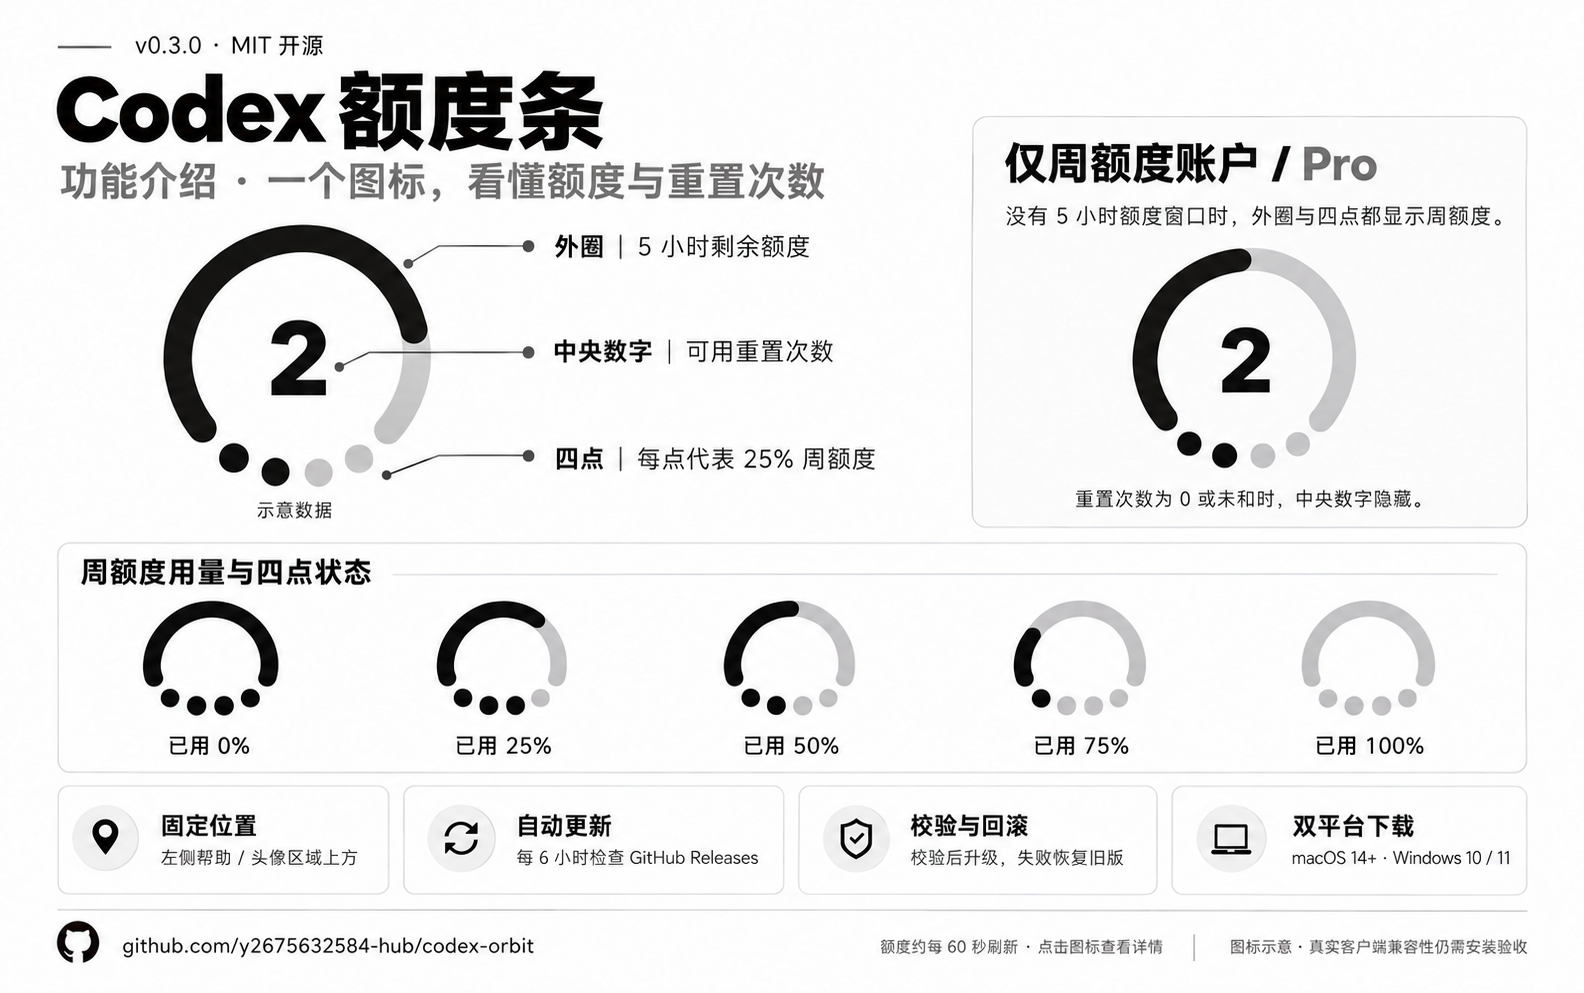
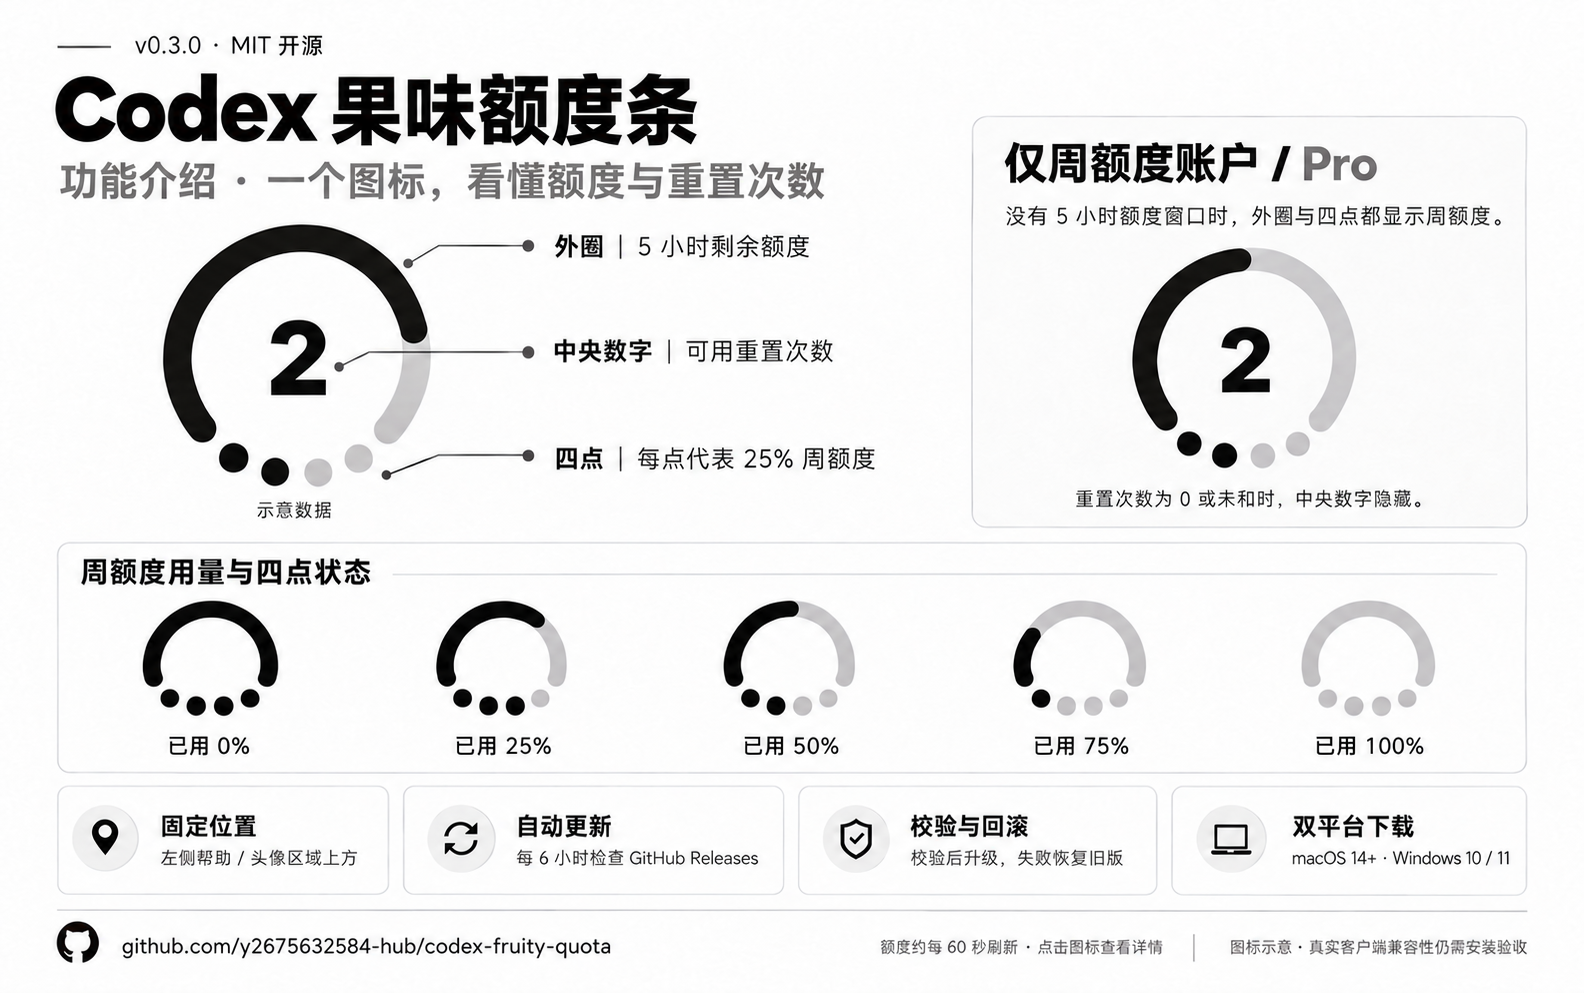
Rename project to Codex 果味额度条 and update repository links

diff --git a/web/rail.html b/web/rail.html
@@ -2,13 +2,13 @@
 <html lang="zh-CN" class="dark">
 <head>
   <meta charset="utf-8"><meta name="viewport" content="width=device-width,initial-scale=1">
-  <title>Codex Orbit · 固定接入测试</title>
+  <title>Codex 果味额度条 · 固定接入测试</title>
   <link rel="stylesheet" href="/rail.css">
   <script src="/injected-orbit.js" defer></script>
   <script type="module" src="/rail-preview.js"></script>
 </head>
 <body>
-  <header><a href="/rail.html">orbit / codex</a><span>固定接入测试 · 模拟导航栏</span><button id="theme">浅色外观</button></header>
+  <header><a href="/rail.html">果味 / codex</a><span>固定接入测试 · 模拟导航栏</span><button id="theme">浅色外观</button></header>
   <main>
     <p class="eyebrow">REUSED PLACEMENT · YOUR ICON</p>
     <h1>留在头像上方。</h1><p class="subtitle">复用同一个定位函数，图标在导航栏布局里占有位置。</p>
@@ -27,7 +27,7 @@
         <p class="note">定位节点：导航栏 footer 前。找不到节点时隐藏，避免盖住其他内容。</p>
       </aside>
     </section>
-    <footer>Codex Orbit 0.3.0 · MIT · 复用 codex-usage-badge 的定位与连接方案</footer>
+    <footer>Codex 果味额度条 0.3.0 · MIT · 复用 codex-usage-badge 的定位与连接方案</footer>
   </main>
   <template id="rail-template"><nav data-app-navigation-rail aria-label="模拟导航栏"><div class="top-icons"><span>⌂</span><span>◷</span><span>▥</span><span>▧</span><span>⚙</span><span>···</span></div><div class="rail-spacer"></div><div class="account-footer"><span class="help">?</span><div class="avatar">U</div></div></nav></template>
 </body>

diff --git a/web/index.html b/web/index.html
@@ -2,11 +2,11 @@
 <html lang="zh-CN">
 <head>
   <meta charset="utf-8"><meta name="viewport" content="width=device-width,initial-scale=1">
-  <title>Codex Orbit · 额度图标预览</title>
+  <title>Codex 果味额度条 · 额度图标预览</title>
   <link rel="stylesheet" href="/preview.css"><script type="module" src="/preview.js"></script>
 </head>
 <body>
-  <header class="topbar"><a class="brand" href="/">orbit<span> / codex</span></a><span class="tag">独立组件预览</span><button id="theme" aria-label="切换深浅色主题">深色外观</button></header>
+  <header class="topbar"><a class="brand" href="/">果味<span> / codex</span></a><span class="tag">独立组件预览</span><button id="theme" aria-label="切换深浅色主题">深色外观</button></header>
   <main>
     <section class="intro"><p class="eyebrow">CODEX QUOTA, AT A GLANCE</p><h1>额度，看一眼就知道。</h1><p class="description">一个圆弧，四个点。把余量收进一个小图标。</p></section>
     <section class="layout">
@@ -49,7 +49,7 @@
         <p class="data-note" id="data-note">通过本机 Codex 登录读取，每 60 秒更新。</p>
       </aside>
     </section>
-    <footer><span>Codex Orbit · 开源组件</span><span>固定接入已实现 · 客户端启用需运行安装入口。</span></footer>
+    <footer><span>Codex 果味额度条 · 开源组件</span><span>固定接入已实现 · 客户端启用需运行安装入口。</span></footer>
   </main>
 </body>
 </html>

diff --git a/scripts/adapt.py b/scripts/adapt.py
@@ -22,7 +22,7 @@ def adapt(root, vendor, output, version):
     save('update.json',json.dumps({'schema':1,'repository':release['repository'],'version':version,'platform':'macOS','allowPrerelease':release.get('allowPrerelease',False)},indent=2)+'\n')
     # Windows keeps the upstream ownership guards, Store discovery, native activation and rollback.
     def brand(text):
-        return text.replace('CodexUsageBadge','CodexOrbit').replace('Codex Usage Badge','Codex Orbit').replace('codexusagebadge','codexorbit').replace('codex-usage-badge','codex-orbit').replace('CODEX_BADGE_','CODEX_ORBIT_').replace('Codex 用量条','Codex Orbit')
+        return text.replace('CodexUsageBadge','CodexOrbit').replace('Codex Usage Badge','Codex 果味额度条').replace('codexusagebadge','codexorbit').replace('codex-usage-badge','codex-orbit').replace('CODEX_BADGE_','CODEX_ORBIT_').replace('Codex 用量条','Codex 果味额度条')
     manager=brand(source('windows/manage-windows.ps1')).replace("$script:Version = '0.10.1'",f"$script:Version = '{version}'")
     manager=manager.replace('const{DatabaseSync}=require("node:sqlite");new DatabaseSync(":memory:").close();','').replace('（需 node:sqlite）','')
     manager=manager.replace("'Update.cmd','README-Windows.md'","'Update.cmd','README-Windows.md','LICENSE','UPSTREAM_LICENSE','THIRD_PARTY_NOTICES.md','update.json'")

diff --git a/scripts/build.py b/scripts/build.py
@@ -26,8 +26,8 @@ def build(native=False):
         "return [installUsageBadge,installProjectColors,installProjectSizes,installThreadTokens].map(fn=>`(${fn.toString()})()`).join(';\\n');",
         "return `(${installQuotaOrbit.toString()})()`;")
     cdp = cdp.replace('__codexUsageBadge', '__codexOrbit')
-    app_server = (VENDOR / 'src/app-server.js').read_text(encoding='utf-8').replace("name:'codex_usage_badge',title:'Codex Usage Badge'", "name:'codex_orbit',title:'Codex Orbit'")
-    parts = [f"/* Codex Orbit {version}; includes MIT-licensed codex-usage-badge code. */\n'use strict';\nconst AGENT_VERSION={json.dumps(version)};",
+    app_server = (VENDOR / 'src/app-server.js').read_text(encoding='utf-8').replace("name:'codex_usage_badge',title:'Codex Usage Badge'", "name:'codex_orbit',title:'Codex 果味额度条'")
+    parts = [f"/* Codex 果味额度条 {version}; includes MIT-licensed codex-usage-badge code. */\n'use strict';\nconst AGENT_VERSION={json.dumps(version)};",
              (VENDOR / 'src/rate-limits.js').read_text(encoding='utf-8'), (VENDOR / 'src/resolve.js').read_text(encoding='utf-8'),
              app_server, cdp, (ROOT / 'src/orbit-values.cjs').read_text(encoding='utf-8'),
              (ROOT / 'src/injected-orbit.js').read_text(encoding='utf-8'), (ROOT / 'src/agent.cjs').read_text(encoding='utf-8')]

diff --git a/orbit/server.py b/orbit/server.py
@@ -66,7 +66,7 @@ def create_server(port=8765, cache=None):
 
 
 def main():
-    parser = argparse.ArgumentParser(description="Codex Orbit local preview. Does not modify Codex Desktop.")
+    parser = argparse.ArgumentParser(description="Codex 果味额度条 local preview. Does not modify Codex Desktop.")
     parser.add_argument("--port", type=int, default=8765)
     parser.add_argument("--once", action="store_true", help="Print sanitized live quota JSON and exit")
     args = parser.parse_args()
@@ -77,7 +77,7 @@ def main():
             parser.exit(1, str(error) + "\n")
         return
     server = create_server(args.port)
-    print(f"Codex Orbit preview: http://127.0.0.1:{server.server_port}", flush=True)
+    print(f"Codex 果味额度条 preview: http://127.0.0.1:{server.server_port}", flush=True)
     try:
         server.serve_forever()
     except KeyboardInterrupt:

diff --git a/orbit/usage.py b/orbit/usage.py
@@ -123,7 +123,7 @@ def read_usage(timeout=20, executable=None):
 
     try:
         send({"method": "initialize", "id": 1, "params": {
-            "clientInfo": {"name": "codex_orbit", "title": "Codex Orbit", "version": "0.3.0"}}})
+            "clientInfo": {"name": "codex_orbit", "title": "Codex 果味额度条", "version": "0.3.0"}}})
         receive(1)
         send({"method": "initialized", "params": {}})
         send({"method": "account/rateLimits/read", "id": 2})

diff --git a/orbit/__init__.py b/orbit/__init__.py
@@ -1,1 +1,1 @@
-"""Codex Orbit: read-only quota bridge."""
+"""Codex 果味额度条: read-only quota bridge."""

diff --git a/README.md b/README.md
@@ -1,8 +1,10 @@
-# Codex 额度条
+# Codex 果味额度条
 
-![Codex 额度条宣传图](docs/images/promo.png)
+![Codex 果味额度条宣传图](docs/images/promo.png)
 
-[macOS 下载](https://github.com/y2675632584-hub/codex-orbit/releases/tag/v0.3.0-macos) · [Windows 下载](https://github.com/y2675632584-hub/codex-orbit/releases/tag/v0.3.0-windows)
+[macOS 下载](https://github.com/y2675632584-hub/codex-fruity-quota/releases/tag/v0.3.0-macos) · [Windows 下载](https://github.com/y2675632584-hub/codex-fruity-quota/releases/tag/v0.3.0-windows)
+
+「果味」指苹果风格：白底、黑灰图标与简洁的状态显示。
 
 一个固定在 Codex 桌面端左侧导航栏、帮助／头像区域上方的剩余额度图标。它在侧栏布局中占位，窗口移动和侧栏重绘后会恢复位置。
 
@@ -11,13 +13,19 @@
 - **中央数字**：账户实际可用重置次数；0 次或数据未知时隐藏。点击只查看详情，不会使用重置次数。
 - 数据约每 60 秒读取；未知额度用空心点表示，过期数据变淡，不冒充满额或实时状态。
 
-![Codex 额度条功能介绍](docs/images/features.png)
+![Codex 果味额度条功能介绍](docs/images/features.png)
 
 [下载宣传图](docs/images/promo.png) · [下载功能介绍图](docs/images/features.png) · [图片说明与生成提示词](docs/images/README.md)
 
 复用 [jaykinhoo9/codex-usage-badge](https://github.com/jaykinhoo9/codex-usage-badge) 的 MIT 代码：本机连接、账户额度读取和 macOS 启动助手；按同一定位方式重新实现图标。固定来源提交与校验值见 [SOURCE.json](third_party/codex-usage-badge/SOURCE.json)，许可与改造范围见 [THIRD_PARTY_NOTICES.md](THIRD_PARTY_NOTICES.md)。继续复用参考项目的更新校验和 Windows 安装／启动方案；没有加入文件夹配色或 Token 统计。
 
 这是第三方运行时界面接入，不是官方插件。它不修改 Codex 应用文件或签名；Codex 更新后如果导航栏结构改变，可能需要调整。找不到目标栏时隐藏图标；检测到原版用量条时也会隐藏，避免重复占位。请先停止原版用量条，再安装此版本。
+
+## 改名说明
+
+项目已更名为 **Codex 果味额度条**，仓库为 `codex-fruity-quota`。原有安装目录、服务名和 ZIP 文件名保留 `CodexOrbit`，避免重复安装。
+
+已发布的 **0.3.0 ZIP 没有因改名而重新打包**，仍携带旧更新源。旧版更新器会拒绝改名后的下载地址；新版本发布后，需要手动下载并重新安装一次。本次已同步源码更新配置，未发布新版安装包。
 
 ## 安装（macOS）
 
@@ -80,6 +88,6 @@ macOS 原生构建需要 Node 24、Python 3.9+ 与 Xcode Command Line Tools；Wi
 
 ## 开源发布
 
-源码采用 MIT，保留原项目许可。可以将本仓库推送到自己的 GitHub 仓库，使用标签 `v0.3.0-macos` 与 `v0.3.0-windows` 分别发布，两种 ZIP 与 `dist/SHA256SUMS.txt` 附在对应 Release，让别人解压安装；更新源配置为 `y2675632584-hub/codex-orbit`，发布状态见交付说明。
+源码采用 MIT，保留原项目许可。可以将本仓库推送到自己的 GitHub 仓库，使用标签 `v0.3.0-macos` 与 `v0.3.0-windows` 分别发布，两种 ZIP 与 `dist/SHA256SUMS.txt` 附在对应 Release，让别人解压安装；更新源配置为 `y2675632584-hub/codex-fruity-quota`，发布状态见交付说明。
 
 请不要提交本机配置、运行日志、账号数据或预览中的个人额度。`.gitignore` 已排除这些目录；打包脚本使用明确文件清单，不包含个人设置或参考截图。GitHub Actions 的测试流程覆盖 macOS 与 Windows；推送平台版本标签后，发布流程构建、测试并上传对应 ZIP 与校验清单。发版前同步修改 package.json 版本号。欢迎提交兼容性修复；报告问题时提供应用版本、系统版本和经过脱敏的日志。

diff --git a/README.en.md b/README.en.md
@@ -1,10 +1,10 @@
-# Codex 额度条 · Codex Quota Bar
+# Codex 果味额度条 · Codex Fruity Quota
 
-![Codex Quota Bar promotional image](docs/images/promo.png)
+![Codex Fruity Quota promotional image](docs/images/promo.png)
 
-![Codex Quota Bar features](docs/images/features.png)
+![Codex Fruity Quota features](docs/images/features.png)
 
-Public display name: **Codex 额度条**. Existing release asset names and update URLs continue to use `codex-orbit` for compatibility.
+Public display name: **Codex 果味额度条**. The repository is `codex-fruity-quota`. Existing internal directories, service names and archive names retain `CodexOrbit` for installation compatibility. The published 0.3.0 ZIPs remain unchanged and retain the old update source. Their updater rejects asset URLs under the renamed repository. When a new version is released, manually download and reinstall it once. This change updates source configuration; it does not publish a new installer.
 
 A quota icon inserted into the Codex desktop navigation rail, immediately above the help/profile footer. The icon occupies normal layout space and restores itself after rail rerenders.
 
@@ -48,7 +48,7 @@ The startup bridge is a universal arm64/x86_64 binary with an ad-hoc signature; 
 
 ## Publish
 
-MIT licensed, with upstream attribution retained. Push this source repository to GitHub and attach the generated macOS ZIP and `dist/SHA256SUMS.txt` to a Release. Source and platform downloads are published at https://github.com/y2675632584-hub/codex-orbit. Release packaging uses an explicit allowlist and excludes personal settings, logs, quota snapshots and reference images.
+MIT licensed, with upstream attribution retained. Push this source repository to GitHub and attach the generated macOS ZIP and `dist/SHA256SUMS.txt` to a Release. Source and platform downloads are published at https://github.com/y2675632584-hub/codex-fruity-quota. Release packaging uses an explicit allowlist and excludes personal settings, logs, quota snapshots and reference images.
 
 ## Updates and Windows
 
@@ -56,4 +56,4 @@ macOS updates require a newer matching Release with a GitHub SHA-256 asset diges
 
 Windows 10/11 users can extract `CodexOrbit-Windows-0.3.0.zip` and run `Install.cmd`. The package adapts upstream Store discovery, guarded native relaunch, owned-directory installation, update checks and rollback. Use `Launch.cmd`, `Status.cmd`, `Update.cmd`, and `Uninstall.cmd` for management. Windows uses Node 24 and Windows PowerShell 5.1+. Its native installation and live client placement still require Windows validation; Windows CI has passed script parsing, native helper compilation and archive validation; live Codex compatibility still requires user verification.
 
-The configured repository is `y2675632584-hub/codex-orbit`. Publish tags `vVERSION-macos` and `vVERSION-windows`, with the corresponding ZIP and `SHA256SUMS.txt`. Platform-tag workflows build, test and publish downloads.
+The configured repository is `y2675632584-hub/codex-fruity-quota`. Publish tags `vVERSION-macos` and `vVERSION-windows`, with the corresponding ZIP and `SHA256SUMS.txt`. Platform-tag workflows build, test and publish downloads.

diff --git a/VERIFICATION.md b/VERIFICATION.md
@@ -21,7 +21,7 @@
 | 更新成功与失败回滚 | 通过 | 隔离安装目录模拟更新，确认版本；模拟新版启动失败，恢复旧程序及外部配置；成功保留备份 |
 | Windows 下载包 | 通过 | 已生成 ZIP，跨平台额度与更新逻辑测试通过，包含 Node 运行逻辑和原生启动源文件 |
 | Windows 原生 CI | 通过 | GitHub Windows Runner 通过构建、20 项 Node 测试（3 项 macOS ZIP 测试跳过）、PowerShell 解析、原生 C# 编译、输入分类与 ZIP 校验 |
-| GitHub 仓库 | 已创建 | y2675632584-hub/codex-orbit 公开仓库；macOS 与 Windows CI 均通过，记录 https://github.com/y2675632584-hub/codex-orbit/actions/runs/37890269671；下载发布状态见 Releases |
+| GitHub 仓库 | 已创建 | y2675632584-hub/codex-fruity-quota 公开仓库；macOS 与 Windows CI 均通过，记录 https://github.com/y2675632584-hub/codex-fruity-quota/actions/runs/37890269671；下载发布状态见 Releases |
 
 本地浏览器截图是模拟界面的验证证据，不是已经在真实 Codex 中安装成功的截图。启动助手逻辑使用隔离适配器测试；真实 macOS 启动事件、普通重开、暂停／卸载仍需用户安装后验收。
 

diff --git a/THIRD_PARTY_NOTICES.md b/THIRD_PARTY_NOTICES.md
@@ -1,6 +1,6 @@
 # Third-party notices
 
-Codex Orbit includes and adapts code from
+Codex 果味额度条 includes and adapts code from
 [jaykinhoo9/codex-usage-badge](https://github.com/jaykinhoo9/codex-usage-badge),
 commit `d014efcd7735a4349576c6b424cac23b614f9115` (MIT).
 
@@ -21,7 +21,7 @@ The vendored files are kept unchanged. `scripts/build.py` checks their recorded 
 
 1. Inject only Orbit's quota component; omit project colors, file sizes, and chat token features.
 2. Rename the renderer namespace from `__codexUsageBadge` to `__codexOrbit`.
-3. Identify the App Server client as `codex_orbit` / `Codex Orbit`.
+3. Identify the App Server client as `codex_orbit` / `Codex 果味额度条`.
 
 Orbit's icon and reset-count handling are original additions. The macOS installer uses its own service names and installation directory. Update validation is adapted for this project’s own GitHub Releases; no installation package is fetched from the upstream repository.
 

diff --git a/docs/images/README.md b/docs/images/README.md
@@ -1,4 +1,4 @@
-# Codex 额度条宣传素材
+# Codex 果味额度条宣传素材
 
 - [宣传图](promo.png)：白底、黑灰图标；突出固定位置、额度和双平台下载。
 - [功能介绍图](features.png)：说明外圈、四点、重置次数、仅周额度账户、自动更新与回滚。
@@ -6,6 +6,6 @@
 
 图中额度是示意数据，界面示意不是实机安装截图。Pro 示例外圈与四点均表示周额度剩余 50%；周额度每用完 25%，一个点变灰。
 
-对外名称为「Codex 额度条」。仓库路径、原有下载包文件名和更新地址保留 `codex-orbit`，使已发布版本继续兼容。
+对外名称为「Codex 果味额度条」。仓库路径为 `codex-fruity-quota`；内部安装目录、服务名和原有下载包文件名保留 `CodexOrbit`，避免重复安装。两张图片均已替换为新名称与新地址。
 
 宣传素材随项目以 MIT 许可发布。
